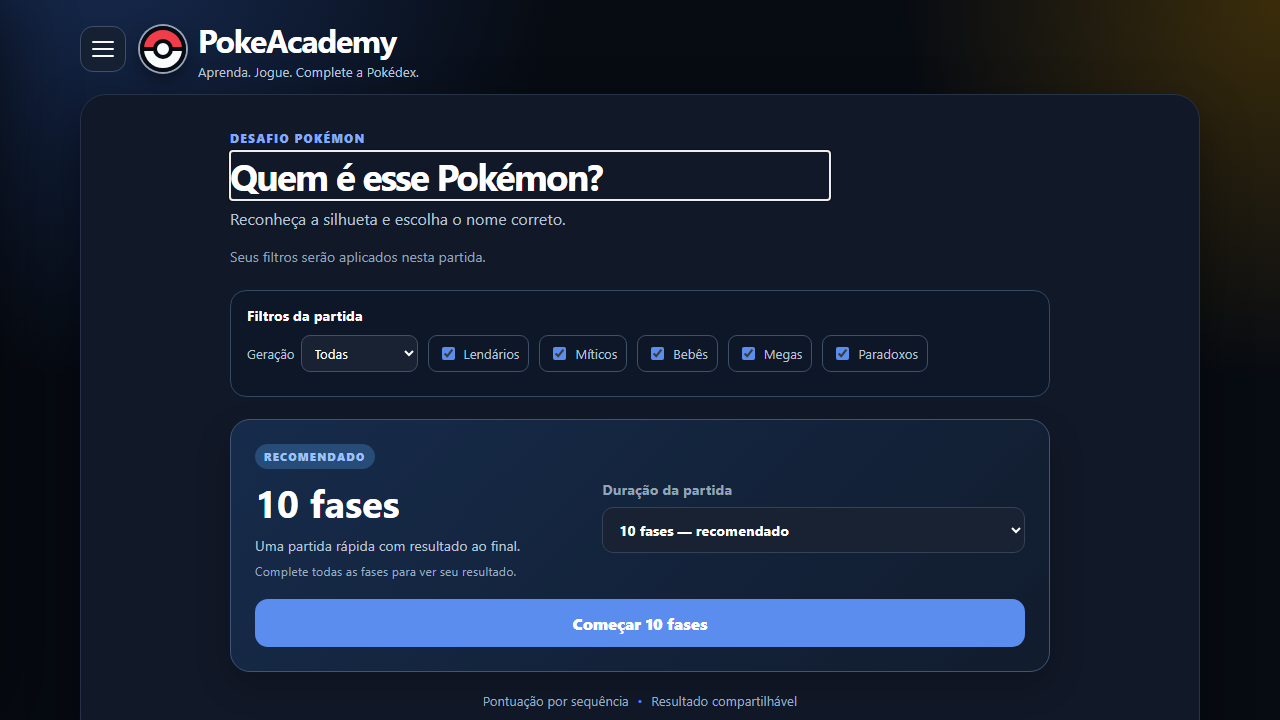
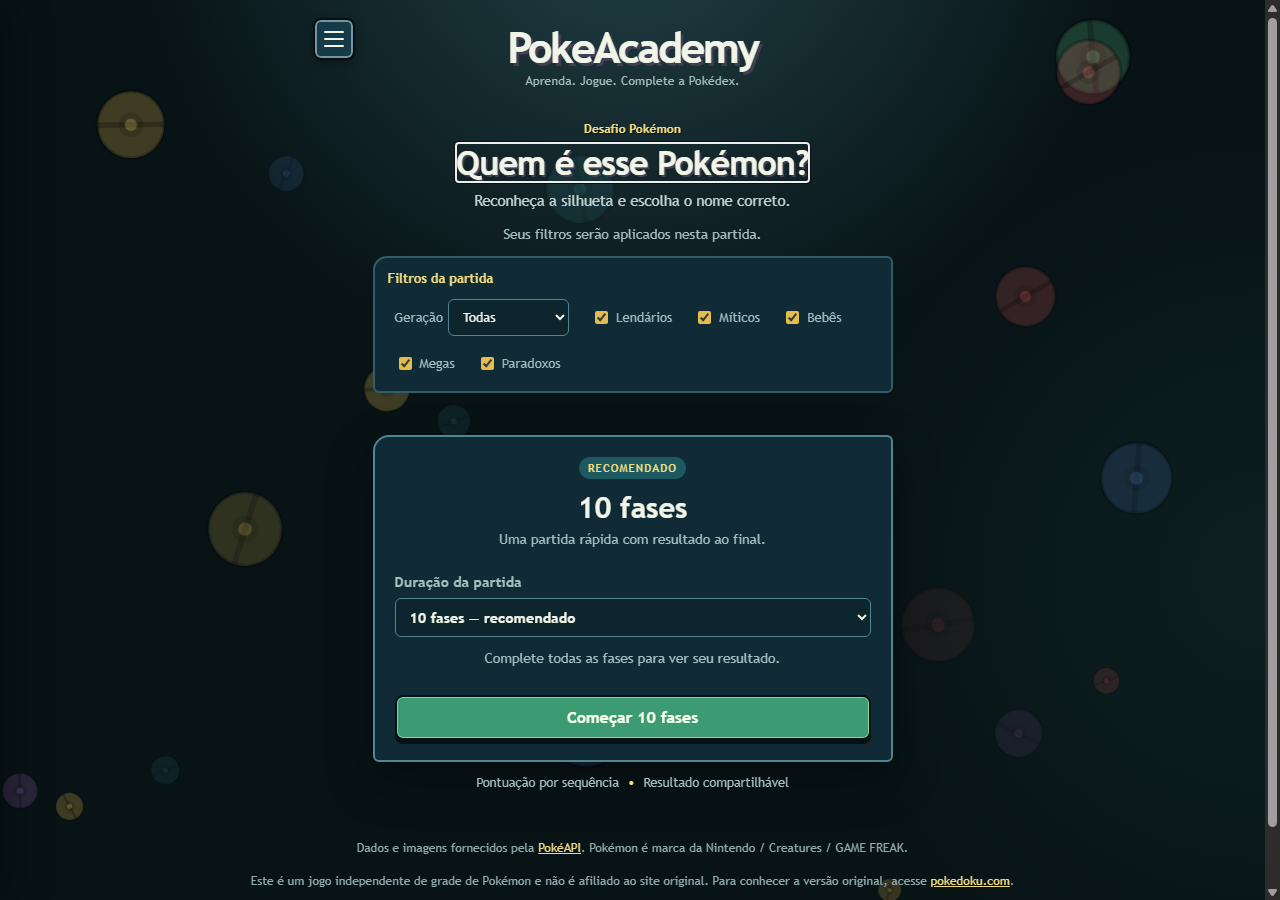
alterado post e print do PokeAcademy para refletir uma versão visual mais adequada.

diff --git a/assets/js/games-en.js b/assets/js/games-en.js
@@ -2,7 +2,7 @@ const englishProjects = {
   "conrados-quest": ["Conrado's Quest", "An adventure made with affection", "A personal project developed for my son to explore a complete game architecture, from documentation to a playable world.", ["Unity", "Adventure", "Personal project"]],
   "space-chase-v2": ["Space Chase V2", "A second pass through the stars", "A more structured version of the spaceship game, created to deepen design, documentation, and pixel art work.", ["Unity", "Pixel art", "Game design"]],
   "pixel-fun": ["Conrado's Pixel Fun", "Small colorful discoveries", "A personal project for visual stimuli and motor coordination, with cloud saves and a bundle workflow.", ["Unity", "Mobile", "Personal project"]],
-  "pokemon-academy": ["Pokémon Academy", "Learn, play, and complete the Pokédex", "An interactive platform of Pokémon quizzes and challenges, with questions about types, moves, silhouettes, PokéDoku, and a Pokédex.", ["Web", "JavaScript", "Pokémon"]],
+  "pokemon-academy": ["PokeAcademy", "Challenges, sessions, and a Pokédex to explore", "A web platform with six Pokémon quizzes, 10-, 20-, 30-stage, or infinite sessions, a timer, shareable results, Pokemon Grid Puzzle, and a Pokédex.", ["Web", "JavaScript", "PokéAPI"]],
   "dino-classic": ["Dino Classic", "Run, jump, and clear the obstacles", "An educational PICO-8 experiment inspired by the classic dinosaur game, with jumping, gravity, obstacles, collisions, and a scoring system.", ["PICO-8", "Lua", "Educational game"]],
   analytics: ["Game Analytics System", "Seeing the game behind the game", "An analytics system with game events, Python processing, and a spatial HTML dashboard for visualizing behavior inside levels.", ["Unity", "Python", "Data visualization"]],
   "melhor-viagem": ["Melhor Viagem", "Learning is also a journey", "An educational game developed with control programming, airplane selection, low-poly world modeling, and scenario design.", ["Unity", "Educational", "3D"]],

diff --git a/assets/js/games.js b/assets/js/games.js
@@ -23,9 +23,9 @@ const portfolioGames = [
   },
   {
     id: "pokemon-academy", collection: "personal", status: "Jogável", type: "game", year: "2026", number: "05", visual: "orbit",
-    title: "Pokémon Academy", subtitle: "Aprenda, jogue e complete a Pokédex",
-    description: "Uma plataforma interativa de quizzes e desafios sobre Pokémon, com perguntas de tipos, ataques, silhuetas, PokéDoku e uma Pokédex.",
-    tags: ["Web", "JavaScript", "Pokémon"], demo: true, postOrder: 5, cover: "assets/images/pokemon-academy-cover.png",
+    title: "PokeAcademy", subtitle: "Desafios, sessões e uma Pokédex para explorar",
+    description: "Plataforma web com seis quizzes Pokémon, partidas de 10, 20, 30 fases ou infinitas, cronômetro, resultados compartilháveis, Pokemon Grid Puzzle e uma Pokédex.",
+    tags: ["Web", "JavaScript", "PokéAPI"], demo: true, postOrder: 5, cover: "assets/images/pokemon-academy-cover.png",
     link: "https://thadeuj.github.io/PokemonAcademy/", linkLabel: "Jogar agora"
   },
   {
